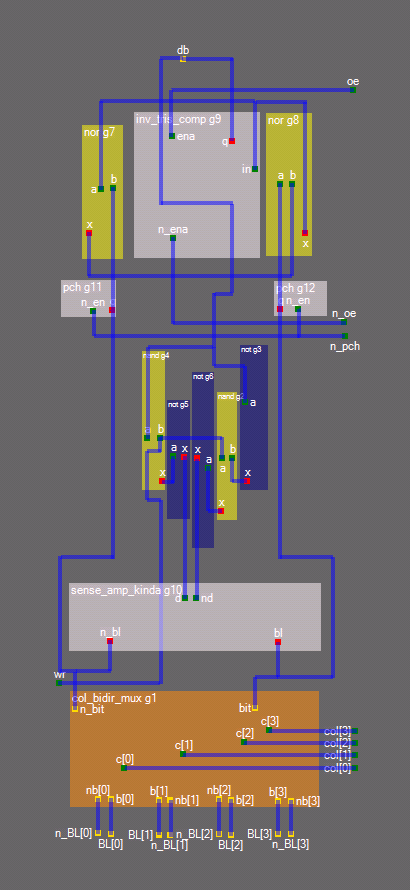
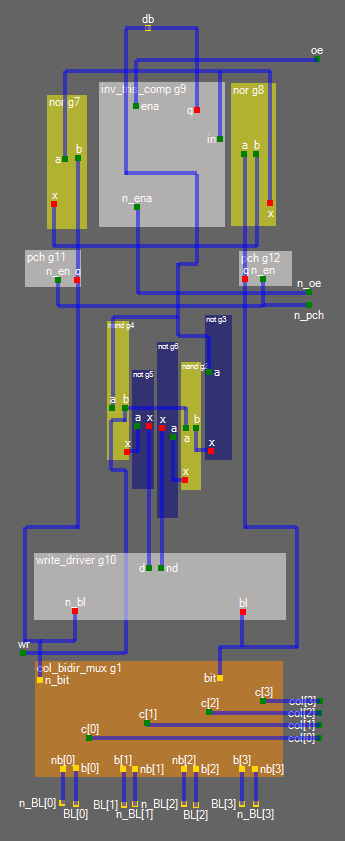
clarified about sense amp

Changed region(s): [[0.058, 0.0, 0.9565, 0.9893]]

diff --git a/wiki/soc/hram.md b/wiki/soc/hram.md
@@ -17,9 +17,9 @@ Features:
 | clk7| input|From ClkGen| (Aka BUKE)|
 | soc_rd| input|From MMIO |SoC data bus read (Aka CPU_RD)|
 | soc_wr| input|From MMIO |SoC data bus write (Aka CPU_WR)|
-| \[7:0\] d| bidir| |SoC internal data bus |
+| d \[7:0\]| bidir| |SoC internal data bus |
 | ffxx| input|From Arb | |
-| \[7:0\] a| input|From Core |SoC internal address bus (lower 8 bits) |
+| a \[7:0\]| input|From Core |SoC internal address bus (lower 8 bits) |
 
 ## Bit lane
 
@@ -29,10 +29,11 @@ Features:
 - The output contains nor latch, the value from which is output to the data bus via a tri-state inverter
 - Tri-state inverter has a complementary control signal `oe` + `/oe`
 - At the very bottom is Column Mux, which also acts as a pass-gate (the bit value is bidirectional)
-- Above the Column Mux is a small circuit similar to the Sense Amp, but for some reason it works in reverse (it amplifies the input value from the data bus, not the cell value from the Cell Array)
+- Above the Column Mux is a small circuit, @msinger found it's called "Write Driver" (http://ce-publications.et.tudelft.nl/publications/1521_bti_analysis_of_sram_write_driver.pdf)
 - The input value is demultiplexed by a small logic from the nand+not bundle and controlled by the `wr` signal
 - Bit values from Cell Array in complementary logic BL + BL_bar (well this is common practice)
 - The circuit contains additional "prechargers" for bit line (besides those in Cell Array), apparently for balancing purposes
+- The circuit does not contain a "canonical" Sense Amp, instead the bit line uses precharge
 
 ## Cells Array
 
